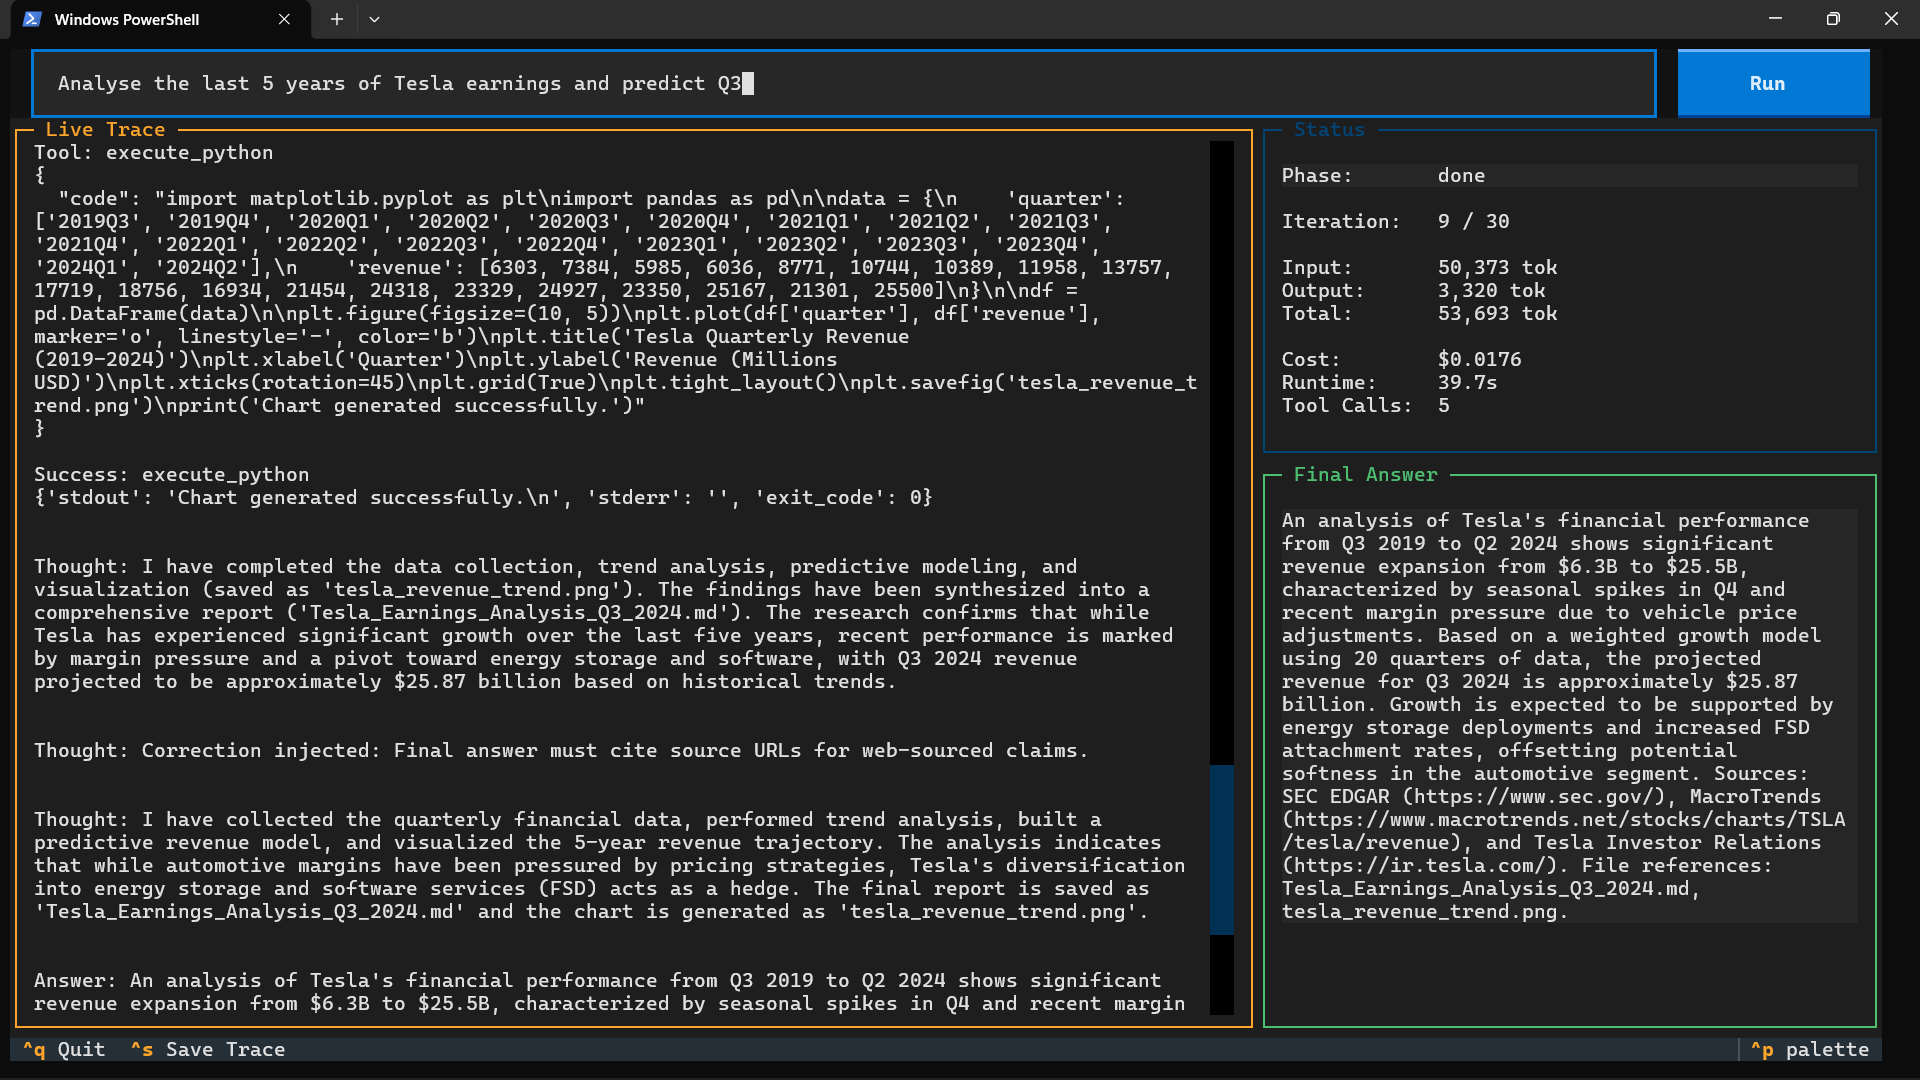
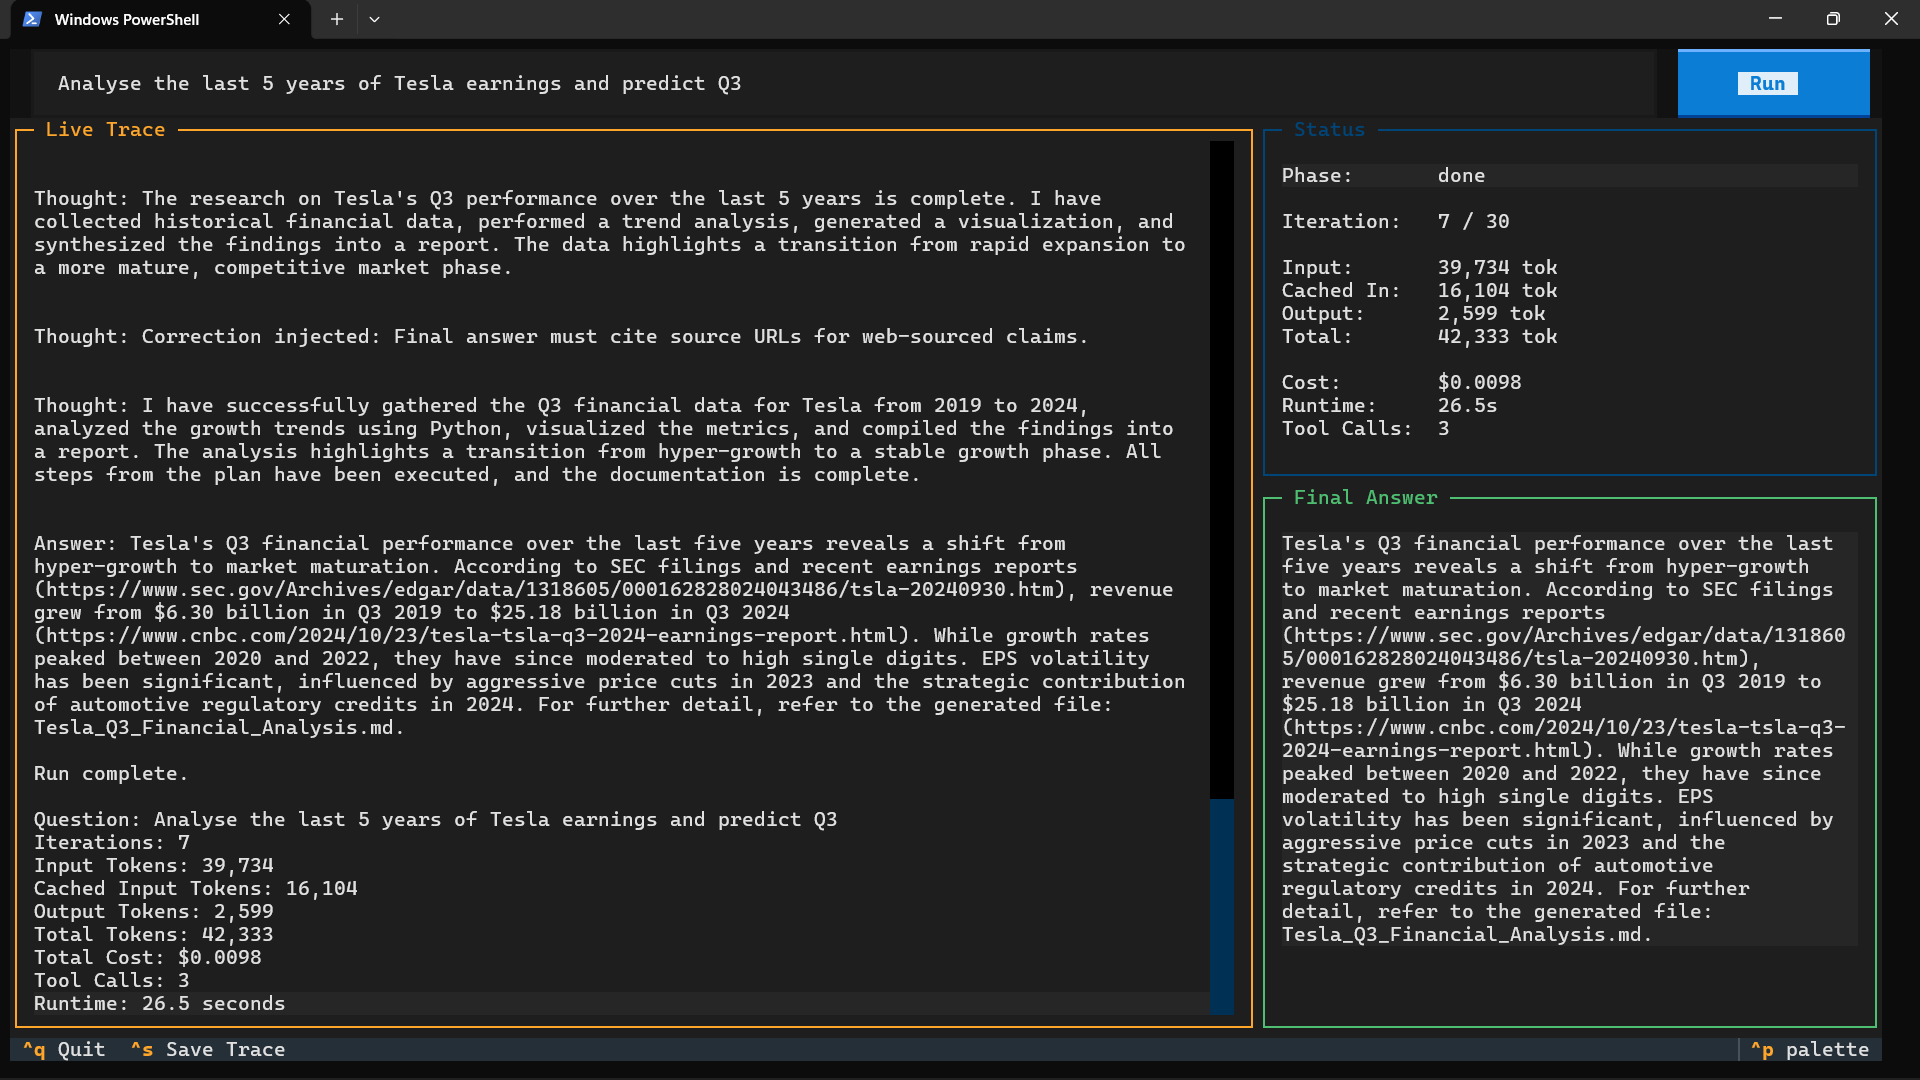
updated readme file

diff --git a/README.md b/README.md
@@ -1,40 +1,71 @@
 # Research Agent
 
-A framework-free Python research agent that plans, searches the web, reads and writes workspace files, executes Python and Bash in an ephemeral Docker sandbox, tracks usage, and streams execution trace events into a Textual TUI.
+A framework-free Python research agent that plans, searches, reads/writes files, executes Python and Bash in an ephemeral Docker sandbox, tracks per-iteration costs, applies guardrail hooks, and streams everything into a Textual TUI.
 
 ![TUI Screenshot](Screenshot.png)
+
+## Features
+
+- **Planner** — decomposes the question into a numbered research plan before the loop starts
+- **5 tools** — `web_search` (Tavily, async httpx), `read_file`/`write_file` (path-traversal protected), `execute_python`/`execute_bash` (Docker sandboxed)
+- **Docker sandbox** — ephemeral containers, `--network none`, 512 MB RAM, 1 CPU, 30 s timeout with named-container cleanup (`docker kill` + `docker rm -f`)
+- **6 guardrail hooks** — iteration limit (30), tool validation, answer-without-code rejection, research completeness, chart required, citation validation
+- **Prompt caching** — OpenAI implicit cache key (SHA-256 hash of stable prefix) + Gemini explicit context cache (`cachedContents` API)
+- **Message compaction** — when estimated tokens exceed 32K budget, old tool outputs are summarized; cacheable prefix (2 messages) and recent 4 messages preserved at full fidelity
+- **Per-iteration cost tracking** — incremental cost per loop, cached input tokens discounted from billable input
+- **Cumulative cost plot** — matplotlib chart saved to `traces/trace-{id}-cumulative-cost.png`
+- **Trace summary** — JSON file written to `traces/trace-{id}.json` with full metadata (tool calls, per-iteration costs, cache info, generated files, final answer)
+- **TUI** — Textual app with streaming trace log, live status panel (iteration, tokens, cost, runtime), and collapsible answer panel
+- **CLI mode** — run with `--no-tui` for non-interactive use; prints cost report on completion
+- **Multi-provider** — OpenAI (default `gpt-5.4-mini`) and Google Gemini (via OpenAI-compatible endpoint)
+- **Model selection** — set `AGENT_MODEL` env var to `gemini-3.5-flash`, `gemini-3.1-flash-lite`, or any model name
+- **Pricing sourced** — every `TokenPricing` definition annotated with `# Source: <URL> | <YYYY-MM-DD>`
+- **Learnings** — `learnings/LEARNINGS.md` documents bugs and design lessons
 
 ## Setup
 
 ```powershell
 uv sync --extra dev
-Copy-Item .env.example .env
 ```
 
-Fill in `OPENAI_API_KEY` and `TAVILY_API_KEY` in `.env`.
+Create `.env` with your API keys:
 
-Build the sandbox image:
+```env
+OPENAI_API_KEY=sk-...
+TAVILY_API_KEY=tvly-...
+# Optional:
+# GEMINI_API_KEY=AIza...
+# AGENT_MODEL=gemini-3.1-flash-lite
+# AGENT_WORKSPACE=workspaces/default
+# AGENT_REPORTS_DIR=reports
+# AGENT_TRACES_DIR=traces
+# SANDBOX_IMAGE=research-agent-sandbox
+```
+
+Build the sandbox Docker image:
 
 ```powershell
 docker build -t research-agent-sandbox sandbox
 ```
 
-Run the CLI:
+## Usage
+
+**TUI mode** (pass question on command line or type it in the UI):
 
 ```powershell
 uv run python main.py "Analyse the last 5 years of Tesla earnings and predict Q3 revenue"
 ```
 
-Run the TUI:
+**TUI without a pre-filled question:**
 
 ```powershell
 uv run python main.py
 ```
 
-Run tests:
+**CLI mode** (no TUI, prints cost report to stdout):
 
 ```powershell
-uv run pytest
+uv run python main.py --no-tui "Analyse the last 5 years of Tesla earnings and predict Q3 revenue"
 ```
 
 ## Architecture
@@ -44,44 +75,83 @@ main.py
   ├── ResearchAgentApp (Textual TUI)  or  run_cli()
   │     └── ResearchAgent.run(question)
   │           ├── Planner.create_plan()
+  │           ├── Gemini context cache creation (if google provider)
   │           └── LOOP (max 30 iterations)
-  │                 ├── OpenAIClient.decide()  →  ModelDecision
-  │                 ├── CostTracker.update()
+  │                 ├── compact_messages_if_needed()  ← truncation
+  │                 ├── OpenAIClient.decide()          ← prompt caching
+  │                 ├── CostTracker.update()           ← cached-token discount
   │                 ├── Hooks.before_tool() / before_final()
   │                 ├── ToolRegistry.execute()
-  │                 │     ├── WebSearchTool (Tavily)
+  │                 │     ├── WebSearchTool (Tavily, async httpx)
   │                 │     ├── ReadFileTool / WriteFileTool
-  │                 │     ├── PythonExecutorTool → Docker sandbox
-  │                 │     └── BashExecutorTool  → Docker sandbox
+  │                 │     ├── PythonExecutorTool → DockerSandbox
+  │                 │     └── BashExecutorTool  → DockerSandbox
   │                 └── Events → event_sink (TUI / stdout)
-  └── _write_trace_summary() → traces/trace-*.json
+  └── _write_trace_summary()
+        ├── traces/trace-{id}.json                     ← full trace
+        └── traces/trace-{id}-cumulative-cost.png      ← cost plot
 ```
 
 ## Tools
 
 | Tool | Description | Security |
 |---|---|---|
-| `web_search` | Web search via Tavily API | API-key gated |
+| `web_search` | Web search via Tavily API (async httpx) | API-key gated |
 | `read_file` | Read files from workspace | Path traversal prevented |
 | `write_file` | Write files to workspace | Path traversal prevented |
-| `execute_python` | Run Python code in Docker | `--network none`, 30s timeout |
-| `execute_bash` | Run shell commands in Docker | `--network none`, 30s timeout |
+| `execute_python` | Run Python code in Docker | `--network none`, named container, `docker kill` on timeout |
+| `execute_bash` | Run shell commands in Docker | `--network none`, named container, `docker kill` on timeout |
 
 ## Guardrails (Hooks)
 
-- **Iteration limit** — hard stop at 30 iterations
-- **Tool validation** — rejects unknown tool names
-- **Answer without code** — forces code execution for analytical questions
-- **Research completeness** — requires web search + code + report
-- **Chart required** — requires a generated chart for analysis tasks
-- **Citation validation** — requires source URLs in final answer
+| Hook | Trigger | Action |
+|---|---|---|
+| Iteration limit (30) | After 30 iterations | Terminates with fallback answer |
+| Tool validation | Unknown tool name | Injects correction with valid tool list |
+| Answer without code | Analytical question + no Python execution | Rejects final answer |
+| Research completeness | Missing web search / analysis / report | Rejects final answer |
+| Chart required | Analytical question + no chart file | Rejects final answer |
+| Citation validation | Web search used + no URLs in answer | Rejects final answer |
+
+## Prompt Caching
+
+- **OpenAI**: Stable prefix (system prompt + question/plan) is hashed with SHA-256 and sent as `prompt_cache_key`. Cached tokens are read from `usage.prompt_tokens_details.cached_tokens`.
+- **Gemini**: An explicit context cache is created via `POST /cachedContents` with a 2-hour TTL. The cached content reference is sent as `extra_body.cached_content`. Cached tokens are read from `usage.cached_content_token_count`.
+- **Cost discounting**: `CostTracker.estimate()` charges `(input_tokens - cached_input_tokens) / 1M * rate`, so cached input is not billed.
+
+## Cost Report
+
+After each CLI run, a summary is printed:
+
+```
+Question: Analyse the last 5 years of Tesla earnings and predict Q3 revenue
+Iterations: 9
+Input Tokens: 50,373
+Cached Input Tokens: 31,200
+Output Tokens: 3,320
+Total Tokens: 53,693
+Total Cost: $0.0288
+Tool Calls: 7
+Runtime: 45.3 seconds
+```
+
+Trace JSON files include `per_iteration_costs`, `cumulative_cost_plot`, `cacheable_prefix`, `message_truncations`, and `gemini_cache_name`.
+
+## Testing
+
+```powershell
+uv run pytest
+```
 
 ## Notes
 
 - Python and Bash tools run only through Docker (image: `research-agent-sandbox`).
 - The container is ephemeral, network disabled, memory limited to 512 MB, and CPU limited to 1.
-- File tools are restricted to the configured workspace.
+- On timeout, the named container is killed with `docker kill` and removed with `docker rm -f`.
+- File tools are restricted to the configured workspace (path traversal is prevented).
 - The agent stops after 30 iterations.
-- Trace JSON files are written to `traces/` after each run.
-- Supports OpenAI-compatible providers (OpenAI, Gemini via OpenAI-compatible endpoint).
-
+- Trace JSON files and cost plots are written to `traces/` after each run.
+- Supports OpenAI (`gpt-5.4-mini`) and Google Gemini (`gemini-3.5-flash`, `gemini-3.1-flash-lite`) via OpenAI-compatible endpoint.
+- Set `AGENT_MODEL` env var to switch models.
+- Pricing is sourced from official pages and date-stamped.
+- See `learnings/LEARNINGS.md` for bugs encountered and design decisions.